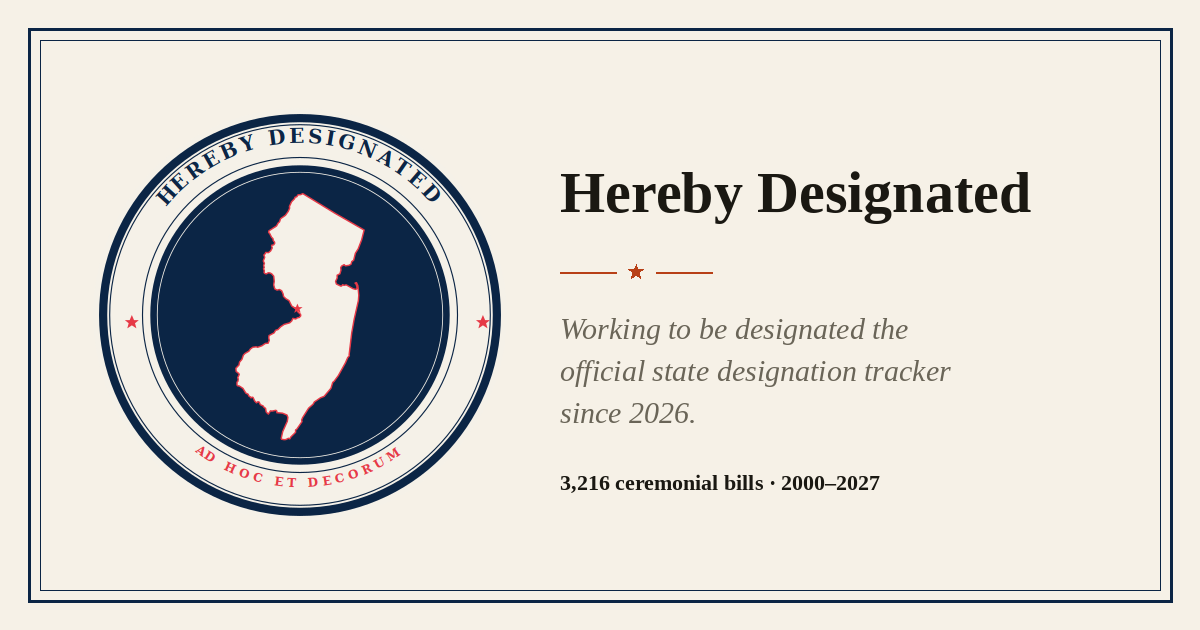
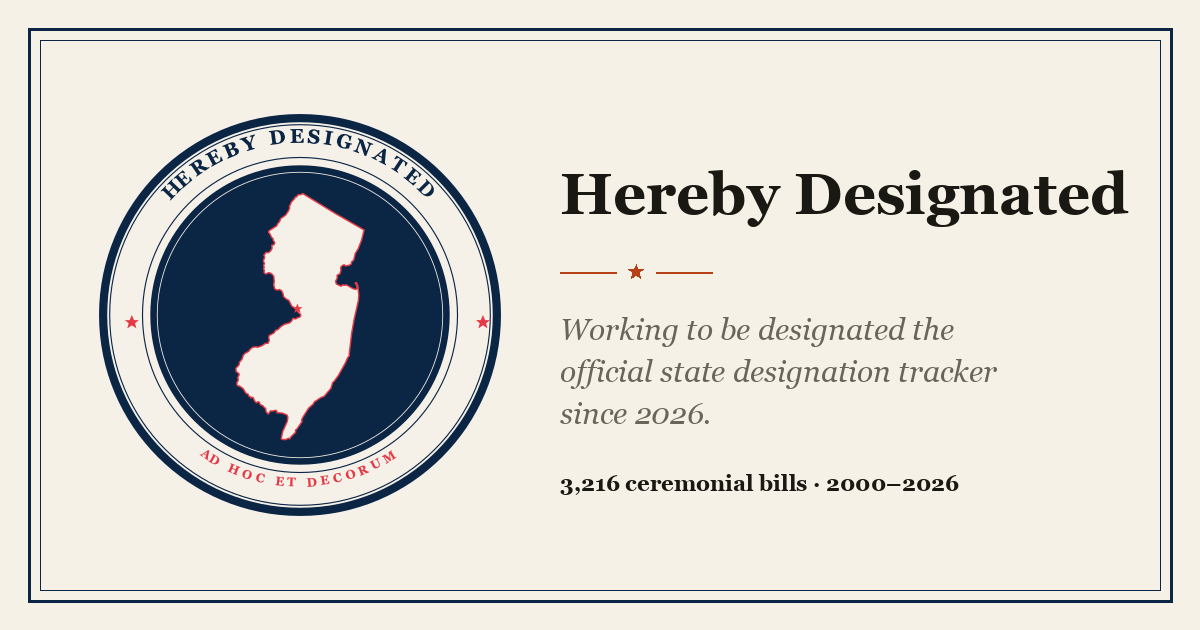
Fix social card

diff --git a/scripts/make_social_card.py b/scripts/make_social_card.py
@@ -86,7 +86,11 @@ def draw_star(draw: ImageDraw.ImageDraw, cx: int, cy: int, r: int, color) -> Non
 def main() -> None:
     meta = json.loads(META.read_text())
     total = f"{meta['total_bills']:,}"
-    span = f"{meta['earliest_session']}–{meta['latest_session'] + 1}"
+    # NJ sessions are 2-year spans, but the dataset only covers bills introduced
+    # through the last refresh — use updated_at's year so the span never claims
+    # coverage we don't yet have (e.g., "2000–2027" while still in 2026).
+    refresh_year = int(meta["updated_at"][:4])
+    span = f"{meta['earliest_session']}–{refresh_year}"
 
     W, H = 1200, 630
     img = Image.new("RGB", (W, H), CREAM)